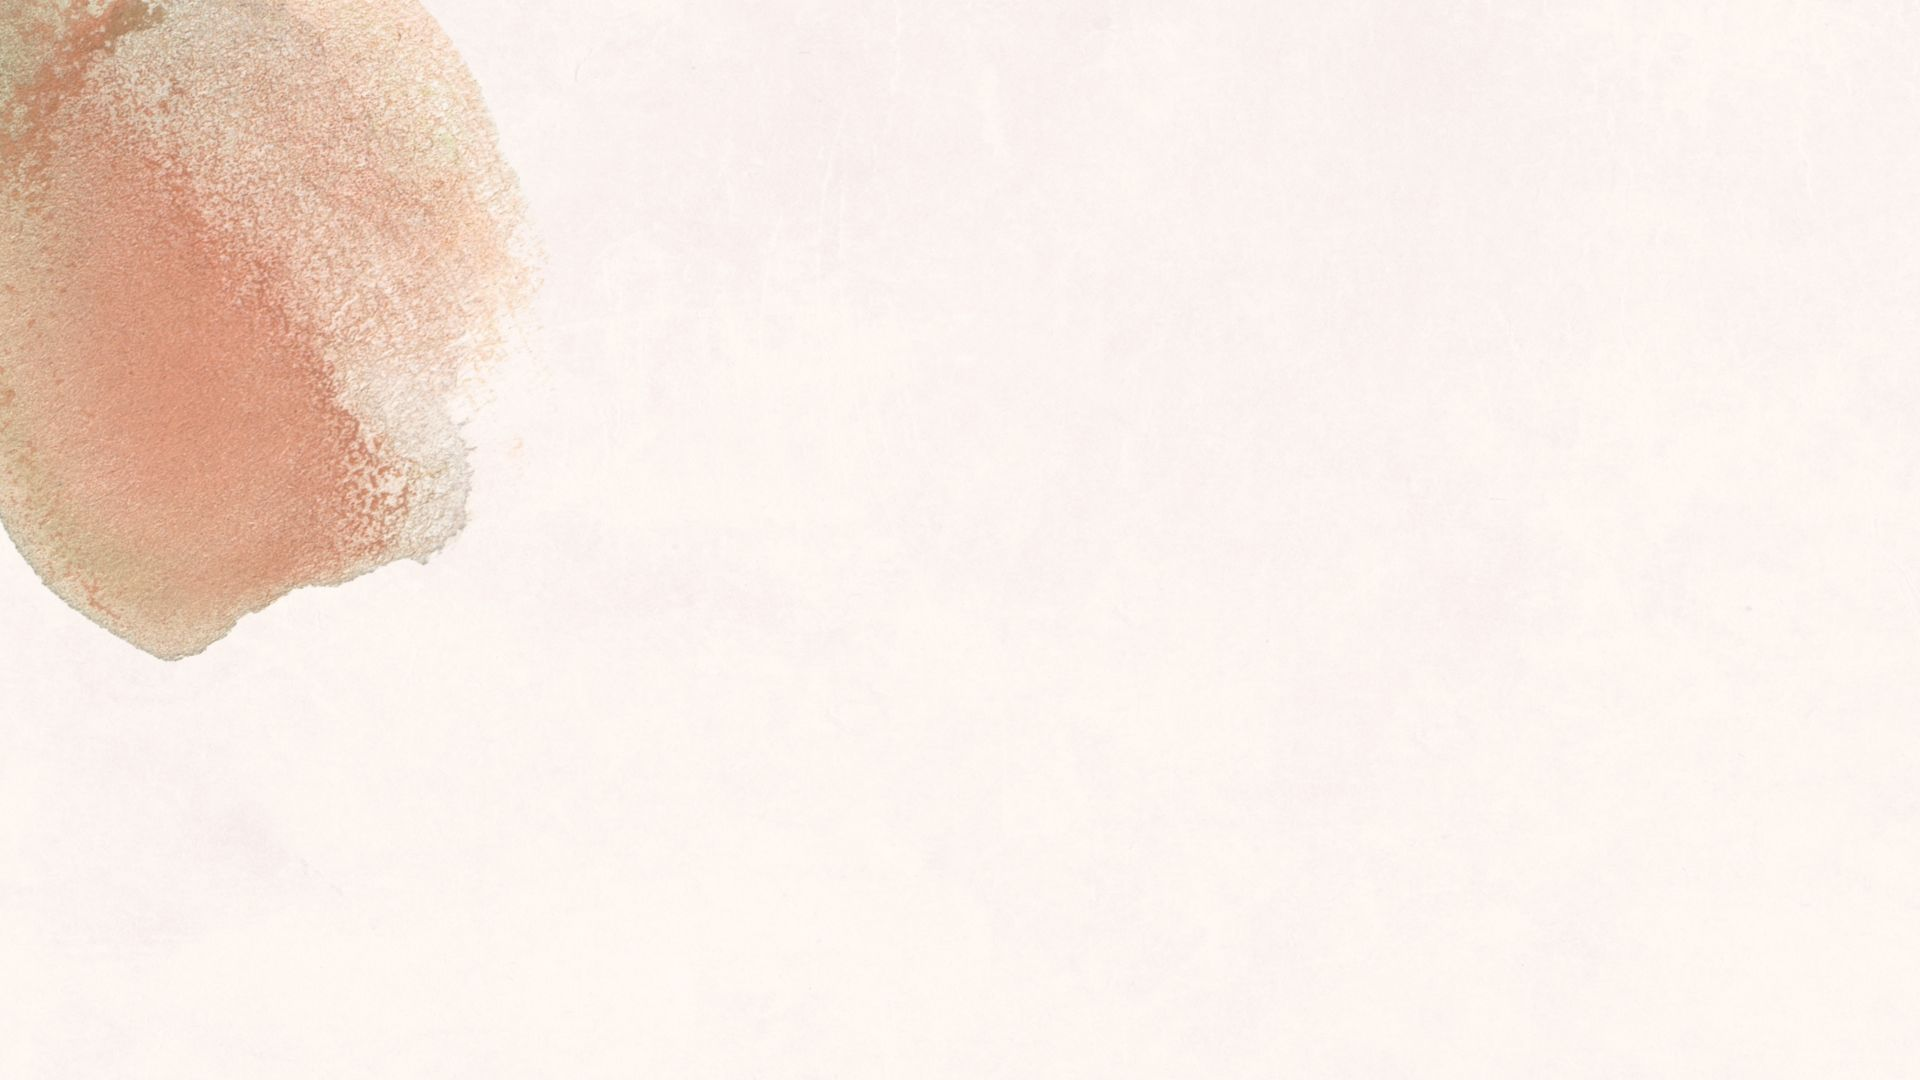
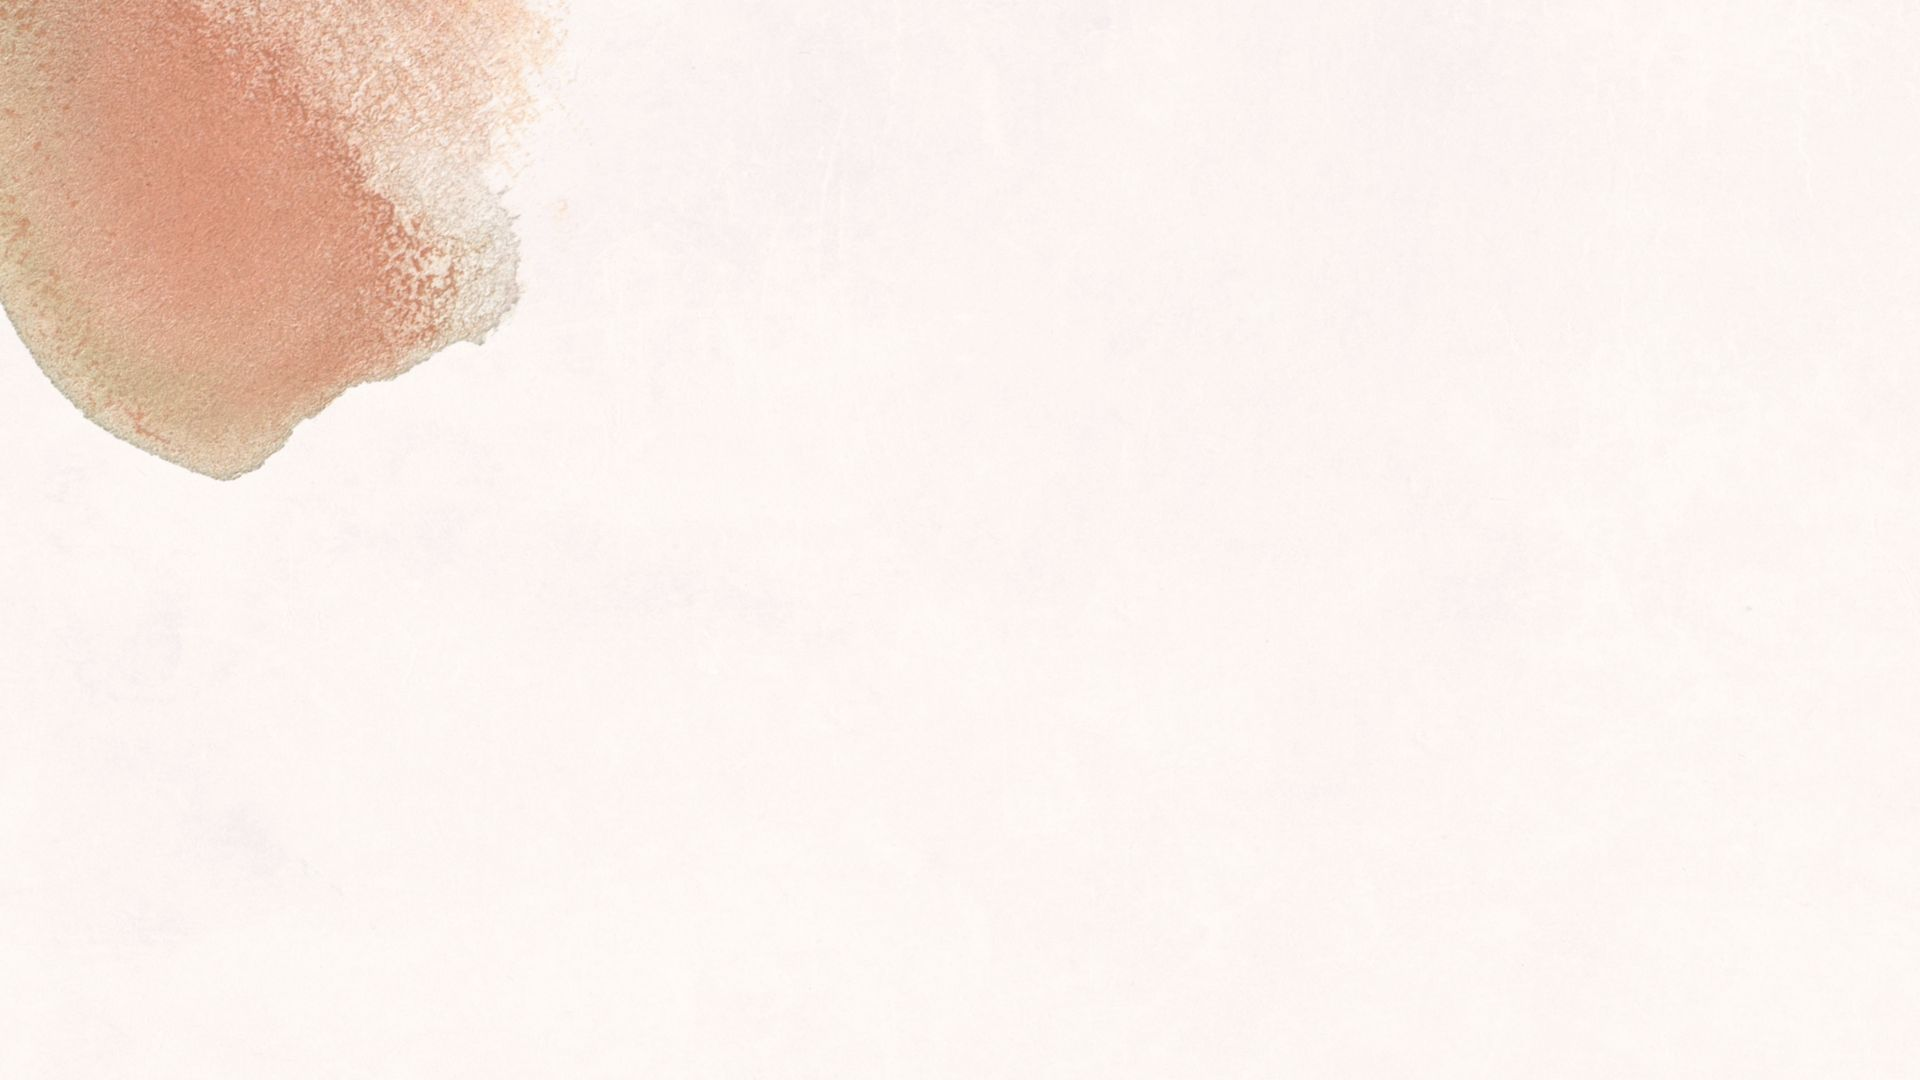
18-06

Changed region(s): [[0.0, 0.0, 0.2812, 0.6111]]

diff --git a/projeto/index/css/index.css b/projeto/index/css/index.css
@@ -148,7 +148,7 @@ margin-top:auto;
     background-image: url(../imgs/fundo2.jpg);
     height: 700px;
     min-height: 500px;
-
+  
 }
 .inicio .max-width{
     left: 50%;
@@ -182,9 +182,12 @@ font-weight: 500;
 
 .ajude{
   background-image:url(../imgs/fundo3.jpg);
-  background-position:top left ;
+  background-position:-28px -65px;
   background-repeat: no-repeat;
-  background-size: 700px 100%;
+  background-size:105% 110%;
+  height: 700px;
+    min-height: 500px;
+    
 }
 
 .ajude .title::after{
